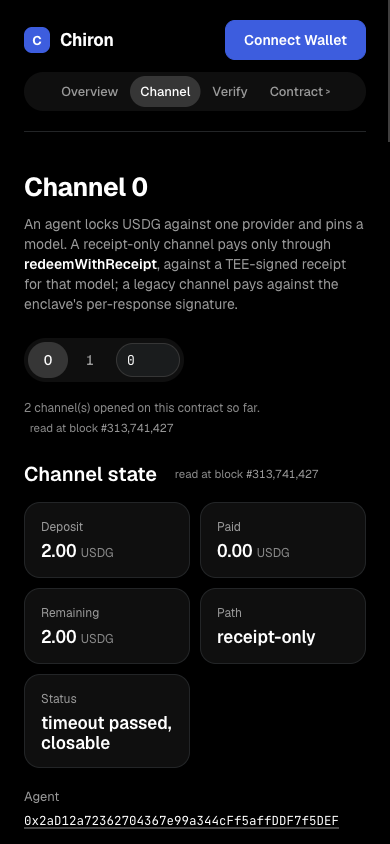
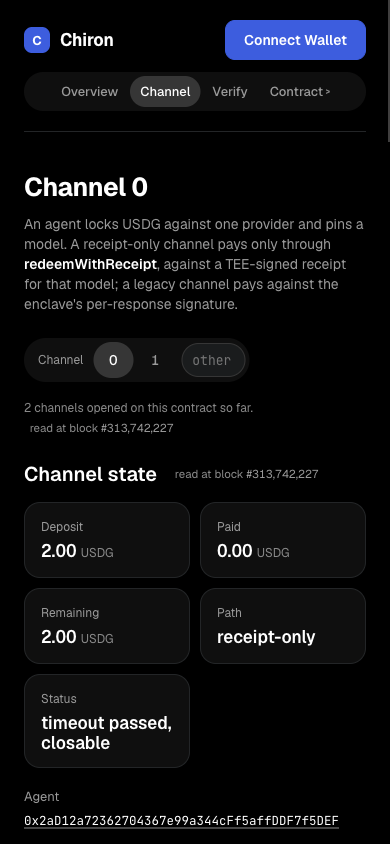
web: judge round 1 fixes: both model hashes above the fold on mobile, labelled channel picker, one empty state on Verify, copy no longer implies settled payments

diff --git a/web/src/pages/Channel.tsx b/web/src/pages/Channel.tsx
@@ -293,6 +293,7 @@ export function Channel() {
           </p>
         </div>
         <div className="picker" role="group" aria-label="Choose a channel">
+          <span className="picker-lab">Channel</span>
           {channelCountSnap.data &&
             Array.from({ length: Number(channelCountSnap.data.value) }, (_, i) => String(i)).map((id) => (
               <button
@@ -306,12 +307,19 @@ export function Channel() {
               </button>
             ))}
           <label className="sr-only" htmlFor="c-id">Channel id</label>
-          <input id="c-id" value={channelId} onChange={(e) => setChannelId(e.target.value)} inputMode="numeric" placeholder="id" aria-describedby="c-id-hint" />
+          <input
+            id="c-id"
+            value={channelCountSnap.data && /^\d+$/.test(channelId.trim()) && BigInt(channelId.trim()) < channelCountSnap.data.value ? '' : channelId}
+            onChange={(e) => setChannelId(e.target.value)}
+            inputMode="numeric"
+            placeholder="other"
+            aria-describedby="c-id-hint"
+          />
         </div>
       </div>
       <p className="hint-line" id="c-id-hint">
         {channelCountSnap.data
-          ? <><span className="num">{channelCountSnap.data.value.toString()}</span> channel(s) opened on this contract so far. <Stamp block={channelCountSnap.data.block} /></>
+          ? <><span className="num">{channelCountSnap.data.value.toString()}</span> {channelCountSnap.data.value === 1n ? 'channel' : 'channels'} opened on this contract so far. <Stamp block={channelCountSnap.data.block} /></>
           : 'Reading channelCount…'}
       </p>
 
@@ -459,7 +467,7 @@ export function Channel() {
                 onClick={() => setPinMode('receipt')}
               >
                 Receipt-only, pinned to model
-                <small>Only redeemWithReceipt can pay this channel. A Phala-signed receipt whose served model differs from the pinned model is refused.</small>
+                <small>Only redeemWithReceipt can pay this channel. A gateway-signed receipt whose served model differs from the pinned model is refused.</small>
               </button>
               <button
                 type="button"

diff --git a/web/src/styles.css b/web/src/styles.css
@@ -429,6 +429,7 @@ a.rl-row:focus-visible { outline: 2px solid var(--color-focus); outline-offset: 
 .picker button.active { background: var(--color-line-strong); color: var(--color-fg); }
 .picker button:hover:not(.active) { color: var(--color-fg); }
 .picker button:focus-visible, .picker input:focus-visible { outline: 2px solid var(--color-focus); outline-offset: 2px; }
+.picker-lab { font-size: 12px; color: var(--color-muted); padding: 0 8px 0 10px; }
 .picker input {
   width: 64px; min-height: 34px; margin-left: 4px; padding: 6px 10px; border-radius: var(--radius-pill);
   background: var(--color-sunken); border: 1px solid var(--color-line-strong); font-family: var(--font-mono); font-size: 13px;
@@ -463,10 +464,12 @@ a.rl-row:focus-visible { outline: 2px solid var(--color-focus); outline-offset: 
   .refusal { padding: 20px; }
   .refusal .verdict-strip { order: -1; margin: 0 0 20px; }
   .brand em { display: none; }
-  .models { grid-template-columns: minmax(0, 1fr); gap: 12px; }
-  .models .model { grid-template-rows: none; }
-  .neq { font-size: 36px; }
-  .hashface .hf-head { font-size: 26px; }
+  .models { gap: 8px; }
+  .models .model { grid-template-rows: 18px minmax(56px, auto) auto; gap: 6px; }
+  .model .m-name { font-size: 14px; line-height: 18px; }
+  .model .m-src, .hashface .hf-tail, .model .m-lab .tag { display: none; }
+  .neq { font-size: 28px; padding: 0; }
+  .hashface .hf-head { font-size: 17px; }
   .verdict-strip .v-stamp { margin-left: 0; width: 100%; }
 }
 @media (prefers-reduced-motion: reduce) {

diff --git a/web/src/pages/Verify.tsx b/web/src/pages/Verify.tsx
@@ -328,7 +328,7 @@ export function Verify() {
           <b>nextRegisterNonce</b> binds the next quote this address may register. Each accepted register advances
           the counter, so a quote fetched now can never be replayed later.
         </p>
-        {!chain.ready && <p className="note">{chain.reason} You can still paste any provider address below to read its nonce.</p>}
+        {!chain.ready && !provider.trim() && <p className="note">{chain.reason} Or paste any provider address below to read its nonce.</p>}
         <div className="form">
           <div className="field">
             <label htmlFor="v-provider">Registering provider address</label>
@@ -396,9 +396,7 @@ export function Verify() {
           </div>
         )}
         {!providerOk && (
-          <div className="empty">
-            <h3>No provider address yet</h3>
-            <p>Enter the address that will call register(), or connect a wallet, to read its contract-issued nonce and build the exact fetch URL.</p>
+          <div className="actions">
             <button className="btn ghost" type="button" onClick={() => setProvider(demo.provider)}>
               Use live provider {short(demo.provider)}
             </button>

diff --git a/web/src/pages/Overview.tsx b/web/src/pages/Overview.tsx
@@ -192,7 +192,7 @@ function RefusalHero() {
   const checks: { label: string; detail: string; mark: Mark }[] = r
     ? [
         {
-          label: 'Channel exists and is open',
+          label: 'Channel exists and is not closed',
           detail: `channels(0).closed = ${String(r.ch.closed)}`,
           mark: r.ch.provider !== ZERO_ADDR && !r.ch.closed ? 'pass' : 'fail',
         },
@@ -551,7 +551,7 @@ export function Overview() {
         </div>
         <div className="verified-grid">
           <div>
-            <h3>Proved onchain, per call</h3>
+            <h3>What the contract checks, per call</h3>
             <p>
               The gateway&apos;s receipt key lives in an Intel TDX guest whose measurement is on the allowlist, under a
               quote chain that ends at Intel&apos;s root. The receipt names the model the upstream served for this exact

diff --git a/web/src/App.tsx b/web/src/App.tsx
@@ -18,7 +18,7 @@ export function App() {
             <header className="top">
               <NavLink to="/" className="brand">
                 <span className="mark" aria-hidden="true">C</span>
-                Chiron <em>pay per call, against proof</em>
+                Chiron <em>USDG channels gated on TEE receipts</em>
               </NavLink>
               <nav className="pillnav" aria-label="Primary">
                 <NavLink to="/" end>
